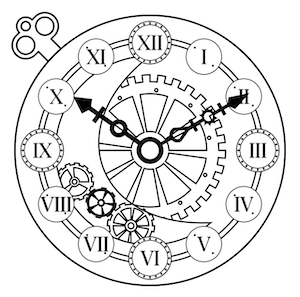
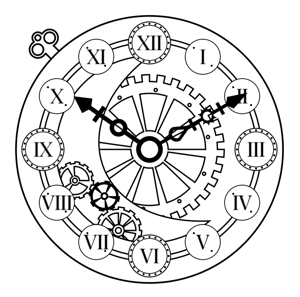
feat(Indicators): improve Steampunk style
* Unalign gears within the moon

diff --git a/Sources/SwiftClockUI/Elements/Indicators/SteampunkIndicators.swift b/Sources/SwiftClockUI/Elements/Indicators/SteampunkIndicators.swift
@@ -55,12 +55,12 @@ struct SteampunkIndicators: View {
                 .scale(1/6)
                 .fill(style: .init(eoFill: true, antialiased: true))
                 .modifier(RotateOnAppear(clockwise: true))
-                .position(x: geometry.diameter * 7/29, y: geometry.diameter * 7/9)
+                .position(x: geometry.diameter * 7/27, y: geometry.diameter * 9/12)
             Cogwheel(toothCount: 12, armCount: 8, addExtraHoles: false)
                 .scale(1/4)
                 .strokeProportionally(Self.decorationLineWidthRatio)
                 .modifier(RotateOnAppear(clockwise: false))
-                .position(x: geometry.diameter * 2/5, y: geometry.diameter * 9/10)
+                .position(x: geometry.diameter * 2/6, y: geometry.diameter * 14/15)
         }
     }
 
